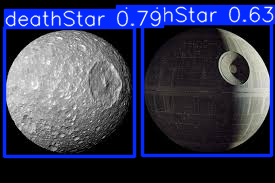
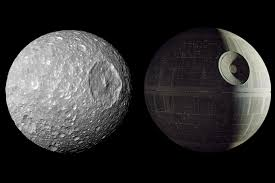
iter thru files

Changed region(s): [[0.0, 0.0, 1.0, 0.8743]]

diff --git a/image-detection/src/detection.py b/image-detection/src/detection.py
@@ -1,13 +1,34 @@
 from ultralytics import YOLO
+import sys
+import os
 
 
 def main():
-    model = YOLO('./runs/detect/train/weights/best.pt')
 
-    results = model('examples/testMe.jpeg')
+    directory = sys.argv[1]
 
-    results[0].save("results.png")
-    
+    directory = os.path.abspath(directory)
+
+    weights = './runs/detect/train/weights/best.pt'
+
+    model = YOLO(weights)
+
+    for file in os.listdir(directory):
+        
+        filename = os.path.join(directory, file)
+        # print(filename)
+        result = model(filename)
+        
+        boxes = result[0].boxes.xyxy
+
+        detected_images = len(boxes) != 0
+        print(detected_images)
+        
+
+    # results = model('examples/testMe.jpeg')
+
+    # results[0].save("results.png")
+
 
 if __name__ == "__main__":
     main()
